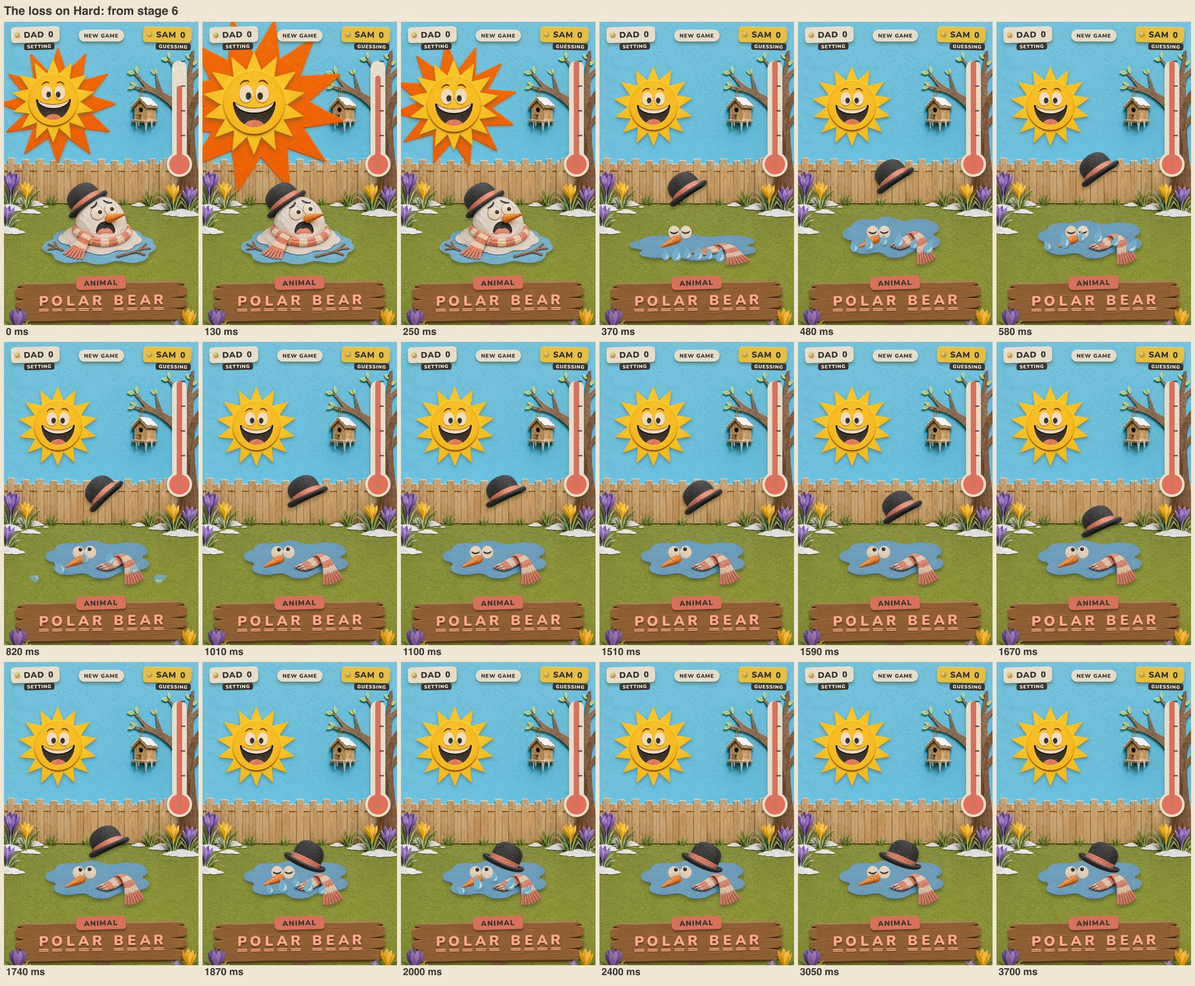
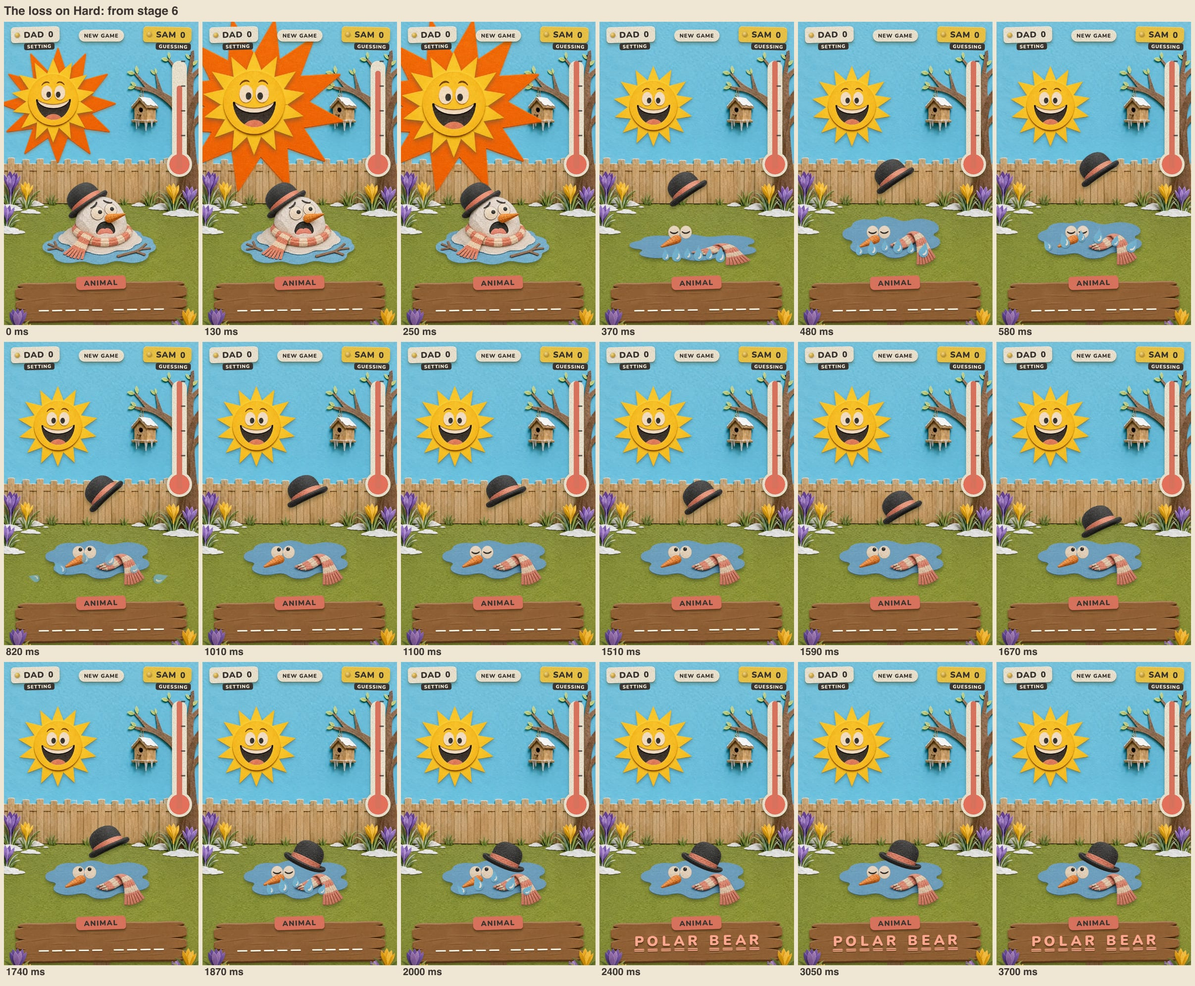
On a loss, keep the answer off the sign until the melt ends
Drew, 2026-11-21: while the hat is hanging, the sign keeps showing the round
as it was before the last miss. The answer and its missed letters come up
with the loss heading, when the melt has played out or been skipped. With
reduced motion, and on a refresh of a lost round, everything shows at once,
as before. check-game and check-play cover each case; the loss strips are
retaken.

diff --git a/src/paper/play.ts b/src/paper/play.ts
@@ -147,6 +147,12 @@ export function createPlayScreen(deps: PlayDeps): PlayScreen {
   let resultTimer = 0;
   /** Bumped whenever the result's reveal is planned afresh, so an older wait (for a melt that has since been replaced) does nothing. */
   let resultRun = 0;
+  /**
+   * True while the melt of a lost round plays: the sign keeps showing the round as it was before the
+   * last miss, and the answer with its missed letters comes up with the heading when the melt ends
+   * (Drew, 2026-11-21).
+   */
+  let holdAnswer = false;
   let popLetter: string | undefined;
   let destroyed = false;
 
@@ -189,7 +195,7 @@ export function createPlayScreen(deps: PlayDeps): PlayScreen {
     signbox.style.setProperty('--flower', `${Math.max(46, Math.min(72, 30 + fit.height * 0.42))}px`);
     answerEl.style.setProperty('--slot', `${slot}px`);
     answerEl.replaceChildren();
-    const cells = roundCells(round, outcome() === 'lost');
+    const cells = roundCells(round, outcome() === 'lost' && !holdAnswer);
     let index = 0;
     for (const row of rows) {
       const rowEl = el('div', { class: 'pp-row' });
@@ -350,7 +356,15 @@ export function createPlayScreen(deps: PlayDeps): PlayScreen {
     };
     clearTimeout(resultTimer);
     const run = ++resultRun;
-    if (after) void after.then(() => !destroyed && run === resultRun && reveal());
+    if (after) {
+      void after.then(() => {
+        if (destroyed || run !== resultRun) return;
+        // the melt is over (played out or skipped): the answer comes up on the sign with the heading
+        holdAnswer = false;
+        drawAnswer();
+        reveal();
+      });
+    }
     else if (live && !reduceMotion) resultTimer = window.setTimeout(reveal, RESULT_DELAY_MS);
     else reveal();
   }
@@ -381,6 +395,9 @@ export function createPlayScreen(deps: PlayDeps): PlayScreen {
       category.classList.toggle('long', Array.from(label).length > 24);
       drawNotches(missLimit(round));
       markKeys();
+      // A wrong guess that has just been made melts him, unless motion is reduced.
+      const melting = !!event && event.status === 'wrong' && !reduceMotion && stageBefore >= 0;
+      holdAnswer = melting && outcome() === 'lost';
       drawAnswer();
       popLetter = undefined; // the pop plays once, not again on every resize
 
@@ -403,7 +420,6 @@ export function createPlayScreen(deps: PlayDeps): PlayScreen {
       // A wrong guess melts him: a beat down to the next stage, or on the last one the melt into the
       // puddle. The plain snowman takes the new stage at once, behind the melt, so whatever interrupts
       // the beat (another guess, a resize, the screen going away) finds him where he should be.
-      const melting = !!event && event.status === 'wrong' && !reduceMotion && stageBefore >= 0;
       let lossPlayed: Promise<void> | undefined;
       let settled = Promise.resolve();
       if (outcome() === 'lost') {

diff --git a/docs/phase-2/melt/notes.md b/docs/phase-2/melt/notes.md
@@ -27,6 +27,7 @@ Rules it follows:
 
 - **The plain snowman takes the new stage at once**, hidden behind the beat. Whatever cuts a beat short (another guess, a resize, a new screen) finds him where he should be, so quick taps cannot leave anything half done. A wrong key is switched off the moment it is tapped.
 - **Skip:** during the loss, a tap anywhere but the name tags, or Enter, Space or Escape, jumps to the puddle at rest and brings the result up. It listens for the press (`pointerdown`), so the tap on the last wrong key cannot skip its own melt.
+- **The answer waits for the melt** (Drew, 2026-11-21): while the loss plays, the sign keeps showing the round as it was before the last miss. The answer and its missed letters come up with the heading when the melt ends or is skipped. With reduced motion, and on a refresh of a lost round, everything shows at once.
 - **Reduced motion and `?still`:** no beat (the new stage simply shows), and a lost round is the puddle as a still picture, with the result up at once.
 - **A refresh** mid-round shows the stage with no beat; on a lost round it shows the puddle at rest (bobbing and blinking, unless motion is reduced), with no replay.
 - **The hat** jumps across to above where it will land and hangs with its middle at 0.6 of his height, whichever stage it came off. Higher than that and, on Hard on a 320 px phone, it ran into the sun.
@@ -56,4 +57,3 @@ The puddle has no eyes drawn on it: the open and closed eyes are two pieces that
 - Nothing has been on a real phone, and VoiceOver has not been tried.
 - Sound (Phase 4): the beat and the loss have clear moments to hang sounds on (the flare at 0, each stage of the slump, the splat at 360 ms, the hat landing at 1730 ms).
 - On a 320 px phone the sun at its biggest overlaps his head on the stage before a loss. That is the play screen's layout, not the melt, and was there before.
-- The answer's missed letters appear on the sign the moment the round is lost, while the melt plays. They could wait for the melt to finish, with the heading; that is a call for Drew.
